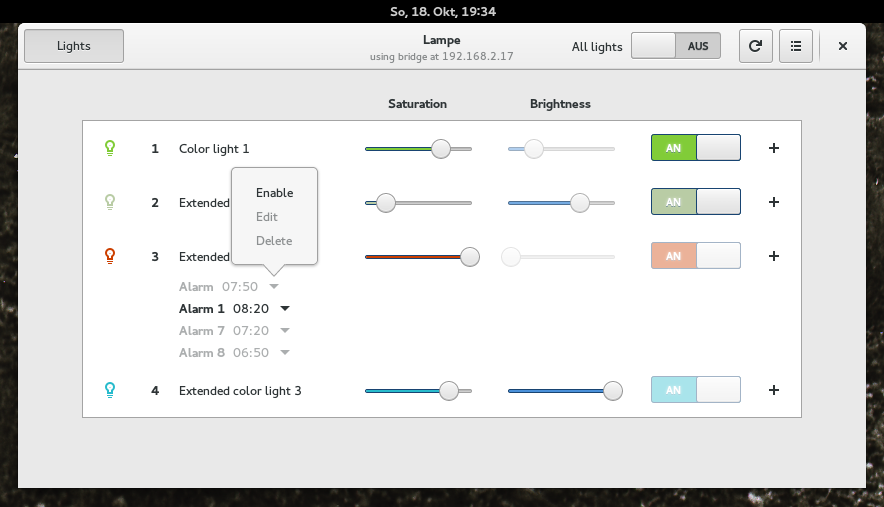
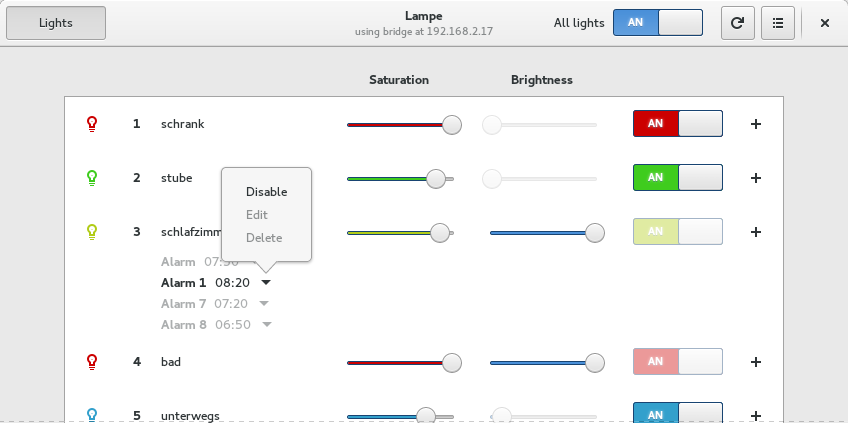
readme correction and mew screenshot for lampe-gtk

diff --git a/README.md b/README.md
@@ -1,8 +1,7 @@
 # Readme: lampe
 
-**lampe:**
-
-Interactive bash-script to control your Philips Hue lights.
+**lampe (-bash):**
+Interactive bash-script to control your Philips Hue lights connected to the bridge.
 
 ![lampe](/lampe.png)
 
@@ -12,7 +11,7 @@ Control your Philips Hue lights from the Gnome-Desktop
 ![lampe-gtk](/lampe-gtk.png)
 
 ## Requirements
-Following cli-tools need to be installed on your system in order to use **lampe(-bash)**:
+Following cli-tools need to be installed on your system in order to use **lampe (-bash)**:
 - curl
 - ping
 - ip
@@ -66,7 +65,7 @@ If the IP of the bridge has changed you can edit it in `~/.lamperc`. If that doe
 rm ~/.lamperc
 ```
 
-## Usage: lampe(-bash)
+## Usage: lampe (-bash)
 Use "lampe" like a computer-game without gamepad or arrow-keys - use WASD. *(:*
 ```
 1..99 - select light
